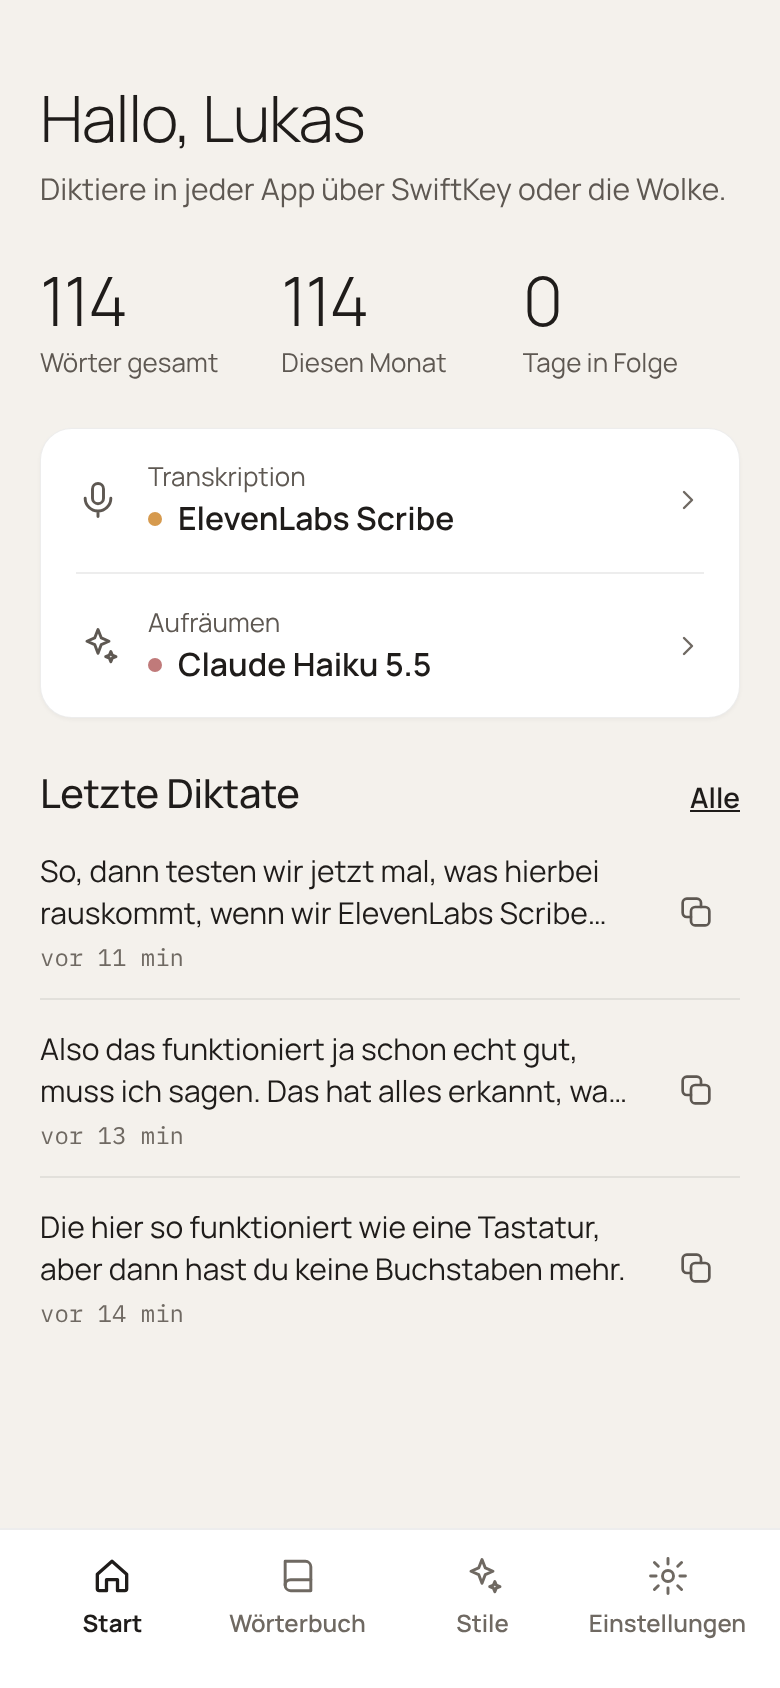
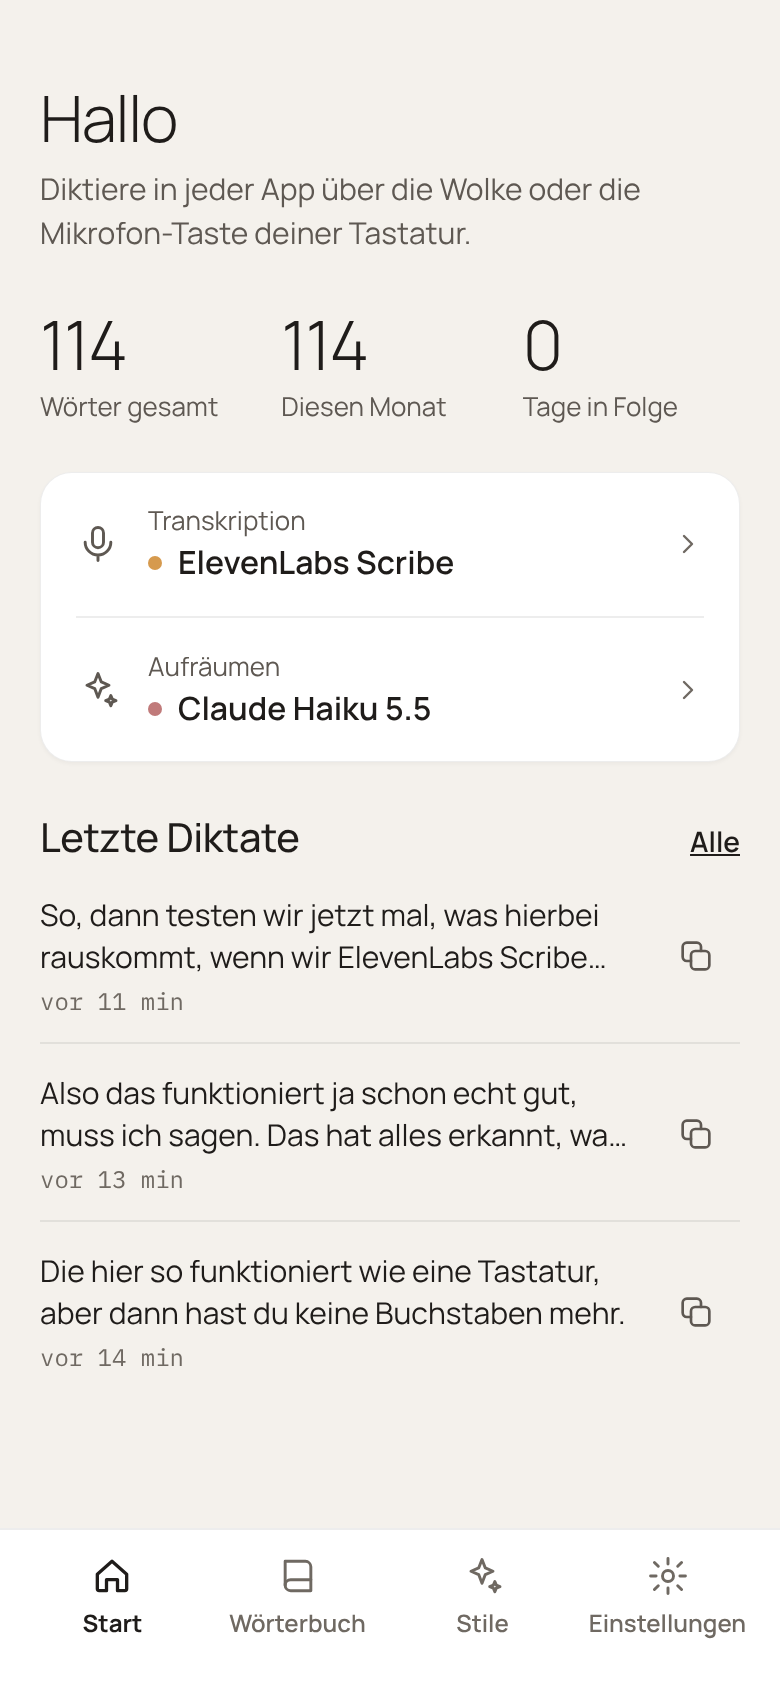
Texte ohne festen Namen und ohne SwiftKey als Voraussetzung
- Start-Untertitel und Spracheingabe-Zeile nennen die Mikrofon-Taste der
  eigenen Tastatur statt SwiftKey; der Dialog nennt SwiftKey nur als Beispiel
- README: Wolke mit jeder Tastatur, Spracheingabe für Tastaturen mit
  Mikrofon-Taste, neutrale Einrichtung; Hinweis, dass Namen und Anbieter in
  den Bildern Beispiele sind
- Bilder der README neu gerendert: "Hallo" statt "Hallo, Lukas", neutrale
  Untertitel

Claude-Session: https://claude.ai/code/session_01P5Vg3U1qJGhKMBSEHTxfyv

diff --git a/app/src/main/kotlin/dev/patrickgold/florisboard/app/AppPrefs.kt b/app/src/main/kotlin/dev/patrickgold/florisboard/app/AppPrefs.kt
@@ -753,7 +753,7 @@ abstract class FlorisPreferenceModel : PreferenceModel() {
             key = "other__app_icon_color",
             default = AppIconColor.WHITE,
         )
-        // The name the start tab greets with ("Hallo, Lukas"); blank greets without one.
+        // The name the start tab greets with ("Hallo, <Name>"); blank greets without one.
         val userName = string(
             key = "other__user_name",
             default = "",

diff --git a/README.md b/README.md
@@ -16,12 +16,12 @@
 
 ## Was diktat kann
 
-- **Schwebender Button „Wolke“** über jeder App, neben der Tastatur deiner Wahl (z. B. SwiftKey). Antippen zum
+- **Schwebender Button „Wolke“** über jeder App, mit jeder Tastatur. Antippen zum
   Starten und Stoppen oder gedrückt halten zum Aufnehmen, wählbar unter Einstellungen › Aufnahme.
 - **Langdiktat**: Lange Diktate werden schon während des Sprechens in Abschnitten transkribiert, geschnitten an
   Sprechpausen. Am Ende ist der Text fast sofort da.
-- **Spracheingabe für andere Tastaturen**: SwiftKeys Mikrofon-Taste und Apps, die Androids Spracherkennung nutzen,
-  diktieren über diktat.
+- **Spracheingabe für andere Tastaturen**: Tastaturen, deren Mikrofon-Taste auf die Spracheingabe umschaltet (zum
+  Beispiel SwiftKey), und Apps, die Androids Spracherkennung nutzen, diktieren über diktat.
 - **Stile**: Wie die KI aufräumt. Mitgeliefert sind Aufräumen, Wörtlich, E-Mail, Chat und Aktenvermerk. Eigene Stile
   lassen sich im Tab „Stile“ anlegen, bearbeiten und löschen. Der aktive Stil läuft nach jedem Diktat.
 - **Wörterbuch**: Eigene Wörter (Namen, Fachbegriffe), die das Sprachmodell richtig schreiben soll, und Ersetzungen,
@@ -44,7 +44,8 @@ Ollama · eigener OpenAI-kompatibler Server · On-device (offline)
 ## Oberfläche
 
 Warmer, ruhiger Look („Entwurf 3“): Papier und Tinte, Manrope und IBM Plex Mono, vier Tabs, hell und dunkel. Die
-Bilder sind die Design-Referenzen aus [`docs/design/entwurf-3/`](docs/design/entwurf-3/), nach denen die App gebaut ist.
+Bilder sind die Design-Referenzen aus [`docs/design/entwurf-3/`](docs/design/entwurf-3/), nach denen die App gebaut ist;
+Namen, Anbieter und Texte darin sind Beispiele.
 
 <p align="center">
   <img src="docs/design/entwurf-3/png/Main.png" width="200" alt="Start">
@@ -63,11 +64,11 @@ Lagune, Periwinkle, Salbei, Abendrot und Tinte.
 ## Einrichten
 
 1. APK installieren (siehe [Bauen](#bauen)) und öffnen.
-2. Anbieter wählen und API-Key eintragen, z. B. ElevenLabs für die Transkription und Anthropic für das Aufräumen.
-   Oder ein Offline-Modell laden.
+2. Anbieter wählen und API-Key eintragen, für die Transkription und für das Aufräumen, gern bei verschiedenen
+   Anbietern. Oder ein Offline-Modell laden.
 3. **Wolke**: Unter Einstellungen › Schwebender Button einschalten und in Android die Bedienungshilfe „diktat
    Floating-Button“ erlauben. Die Wolke erscheint, sobald ein Textfeld aktiv ist.
-4. **Optional, Mikrofon-Taste in SwiftKey**: Unter Einstellungen › Spracheingabe diktat als Eingabemethode
+4. **Optional, Mikrofon-Taste deiner Tastatur**: Unter Einstellungen › Spracheingabe diktat als Eingabemethode
    einschalten. Deine Tastatur bleibt, wie sie ist.
 
 ## Bauen
